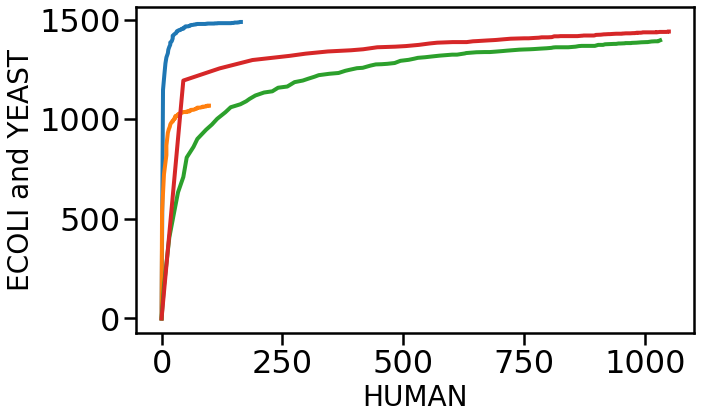
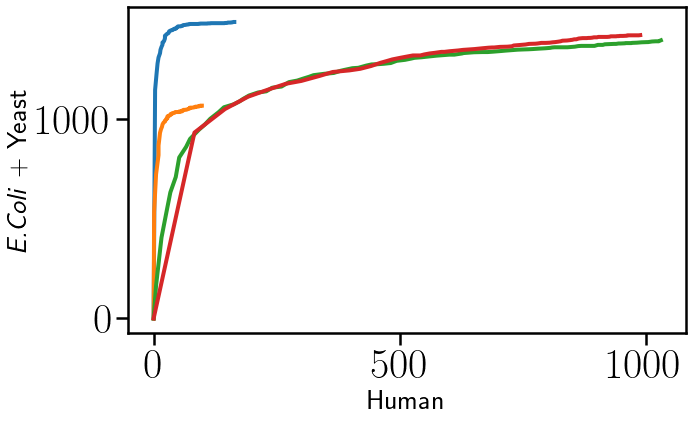
updated docs

Changed region(s): [[0.0, 0.0, 1.0, 0.9928], [0.2727, 0.1551, 0.3333, 0.1862]]

diff --git a/doc/benchmark/benchmark.tex b/doc/benchmark/benchmark.tex
@@ -342,8 +342,8 @@ To get an overview of the results of the methods we first made histograms of the
         D & \includegraphics[width=0.4\linewidth]{../../result/report_plots/osw_top3_intensity.png} &
         H & \includegraphics[width=0.4\linewidth]{../../result/report_plots/diann_top3_intensity.png} 
     \end{tabular}
-    \todo[inline]{Remove headers. Increase font size. What does the fc=0.4 mean for the other methods? Did you first remove all proteins with less fc than that? See to that this is reflected in the methods section.\\
-    What is the reason for MSqRobSum's spike at zero?}
+    %\todo[inline]{Remove headers. Increase font size. What does the fc=0.4 mean for the other methods? Did you first remove all proteins with less fc than that? See to that this is reflected in the methods section.\\
+    %What is the reason for MSqRobSum's spike at zero?}
     \caption{{\bf Comparison of reported fold change distributions.} We used peptide data from (A-D) DDA spectrum libraries and (E-H) psedo spectra as generated by 
     (A,E) Triqler, (B,F) MSqRobSum, (C,G) MSstats, and (D,H) Top-3. \label{fig:fc_histogram}}
 \end{figure}
@@ -389,8 +389,8 @@ The LFQBench set contain varying concentrations of {\em E. Coli} and Yeast conce
         B & \includegraphics[width=0.45\linewidth]{../../result/report_plots/diann_de_human_vs_ecoli_and_yeast.png} \\ 
 
     \end{tabular}
-    \todo[inline]{Merge the plots so ythat you report the number of differentialy abundant yeast+ecoli proteins as a function of human proteins proteins. "E. coli" should be written in italics.
-    }
+    %\todo[inline]{Merge the plots so ythat you report the number of differentialy abundant yeast+ecoli proteins as a function of human proteins proteins. "E. coli" should be written in italics.
+    %}   
     \caption{{\bf Comparison of ability to differentiate differentially abundant proteins} We plotted the number of reported differentially abundant  {\em E. Coli} and Yeast proteins as a function of number of proteins from the HeLa background when sorting according to significance for (A) DDA generated spectral libraries and (B) DIA-Umpire geneated Pseudo spectra. For the test we selected a fold-change treshold of 0.4 for Triqler. \label{fig:diff_vs_hela}}
 \end{figure}
 
